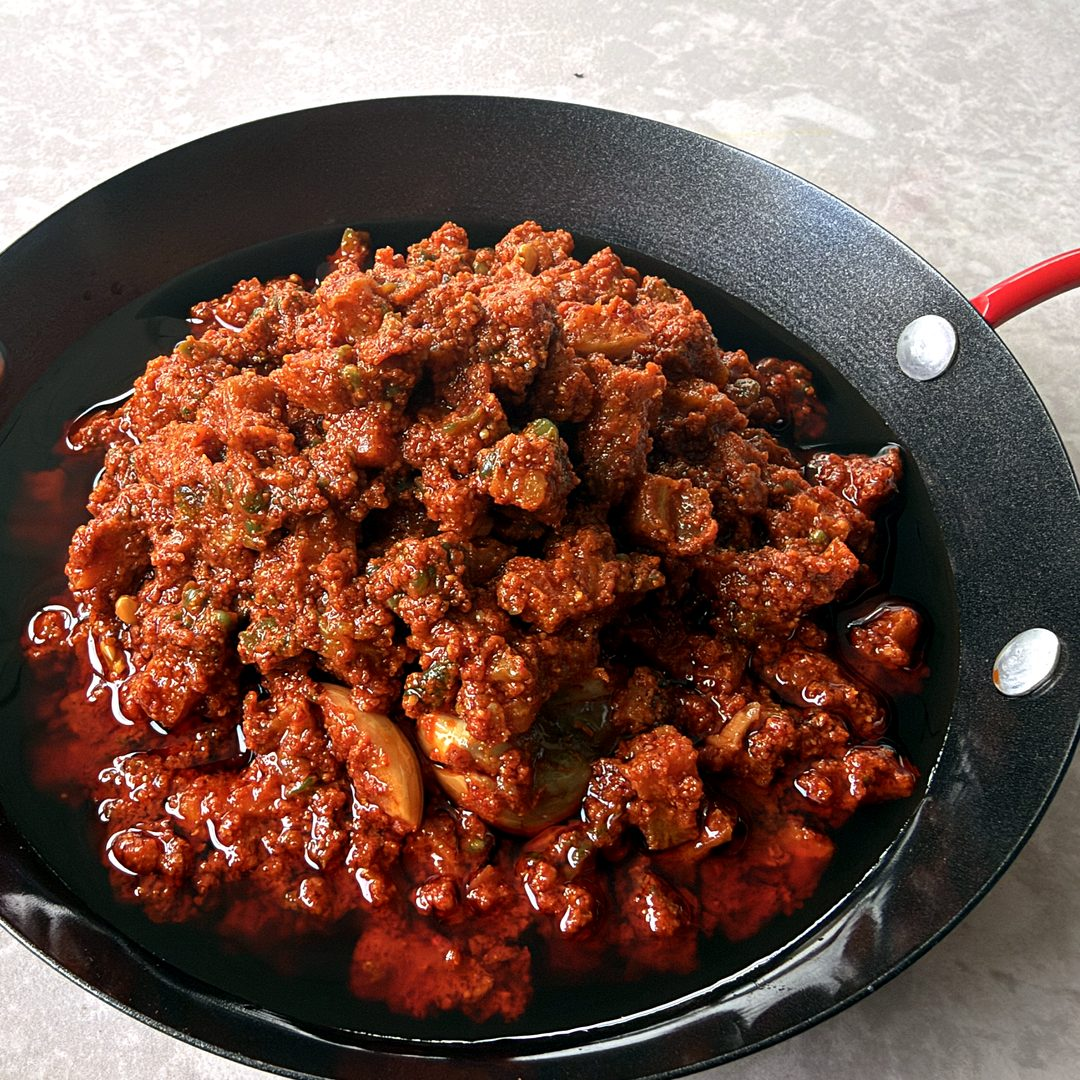
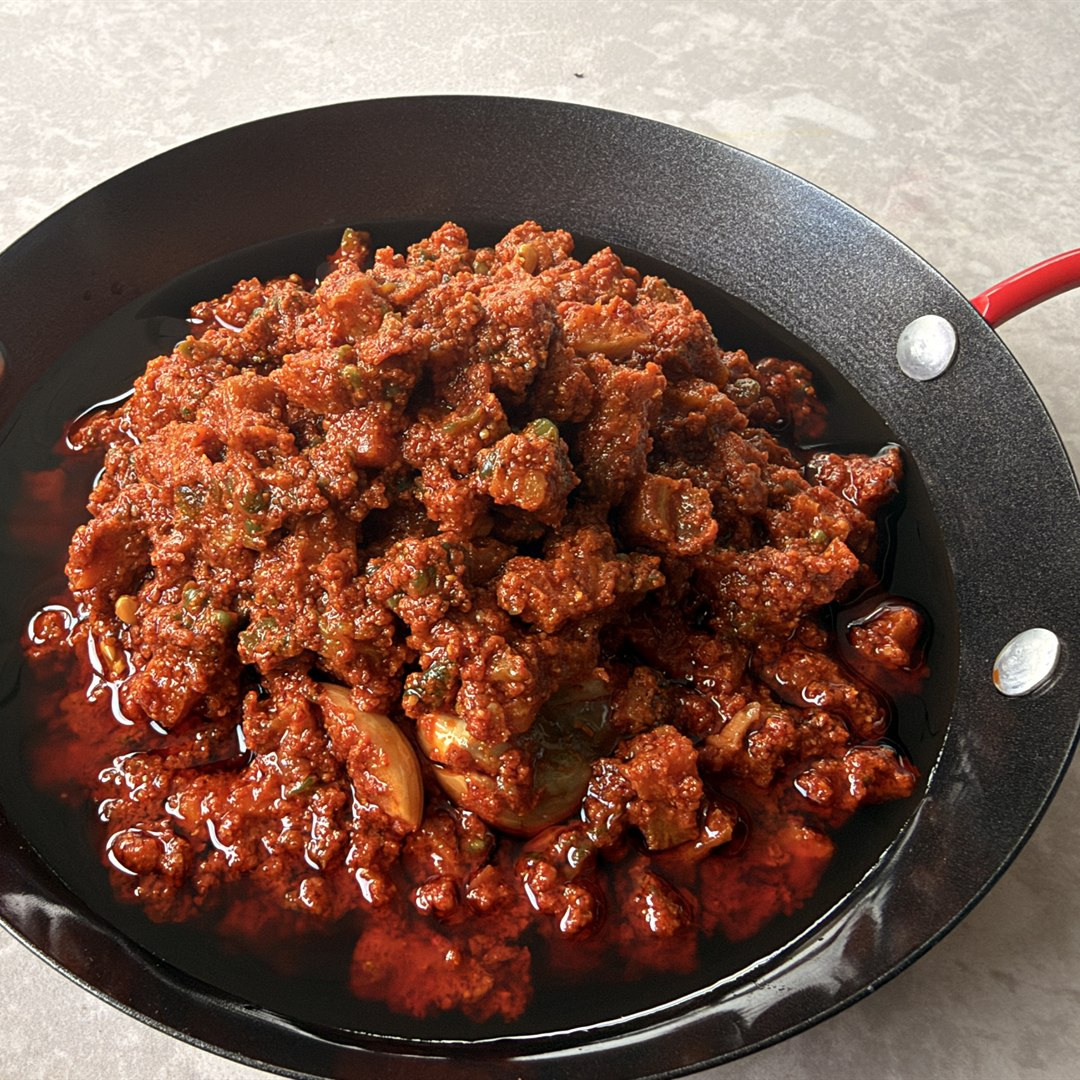
Replace Karela Pickle product photos

Changed region(s): [[0.7333, 0.1833, 0.7944, 0.2444]]

diff --git a/shop/products/picklespodi/picklespodi-karela-bitter-gourd-pickle/index.html b/shop/products/picklespodi/picklespodi-karela-bitter-gourd-pickle/index.html
@@ -159,12 +159,6 @@
         <div class="product-thumbs" id="pthumbs">
           <button type="button" class="pthumb is-active" data-src="../../../../images/products/pickles/karela-pickle-2026-1.jpg" aria-label="View image 1"><img src="../../../../images/products/pickles/karela-pickle-2026-1.jpg" alt="Karela Pickle / Kakarakaya Pickle 1" loading="lazy"></button>
           <button type="button" class="pthumb" data-src="../../../../images/products/pickles/karela-pickle-2026-2.jpg" aria-label="View image 2"><img src="../../../../images/products/pickles/karela-pickle-2026-2.jpg" alt="Karela Pickle / Kakarakaya Pickle 2" loading="lazy"></button>
-          <button type="button" class="pthumb" data-src="../../../../images/products/pickles/karela-pickle-2026-3.jpg" aria-label="View image 3"><img src="../../../../images/products/pickles/karela-pickle-2026-3.jpg" alt="Karela Pickle / Kakarakaya Pickle 3" loading="lazy"></button>
-          <button type="button" class="pthumb" data-src="../../../../images/products/pickles/karela-pickle-2026-4.jpg" aria-label="View image 4"><img src="../../../../images/products/pickles/karela-pickle-2026-4.jpg" alt="Karela Pickle / Kakarakaya Pickle 4" loading="lazy"></button>
-          <button type="button" class="pthumb" data-src="../../../../images/products/pickles/karela-pickle-2026-5.jpg" aria-label="View image 5"><img src="../../../../images/products/pickles/karela-pickle-2026-5.jpg" alt="Karela Pickle / Kakarakaya Pickle 5" loading="lazy"></button>
-          <button type="button" class="pthumb" data-src="../../../../images/products/pickles/karela-pickle-2026-6.jpg" aria-label="View image 6"><img src="../../../../images/products/pickles/karela-pickle-2026-6.jpg" alt="Karela Pickle / Kakarakaya Pickle 6" loading="lazy"></button>
-          <button type="button" class="pthumb" data-src="../../../../images/products/pickles/karela-pickle-2026-7.jpg" aria-label="View image 7"><img src="../../../../images/products/pickles/karela-pickle-2026-7.jpg" alt="Karela Pickle / Kakarakaya Pickle 7" loading="lazy"></button>
-          <button type="button" class="pthumb" data-src="../../../../images/products/pickles/karela-pickle-2026-8.jpg" aria-label="View image 8"><img src="../../../../images/products/pickles/karela-pickle-2026-8.jpg" alt="Karela Pickle / Kakarakaya Pickle 8" loading="lazy"></button>
         </div>
       </div>
       <article class="product-content">

diff --git a/assets/js/data.js b/assets/js/data.js
@@ -1212,7 +1212,7 @@ const SHRISH_DATA = {
       price: "$10.99", unit: "250g or 500g",
       available: true, displayOnly: false, preorderOnly: false, tag: "Veg",
       image: "images/products/pickles/karela-pickle-2026-1.jpg",
-      gallery: ["images/products/pickles/karela-pickle-2026-1.jpg", "images/products/pickles/karela-pickle-2026-2.jpg", "images/products/pickles/karela-pickle-2026-3.jpg", "images/products/pickles/karela-pickle-2026-4.jpg", "images/products/pickles/karela-pickle-2026-5.jpg", "images/products/pickles/karela-pickle-2026-6.jpg", "images/products/pickles/karela-pickle-2026-7.jpg", "images/products/pickles/karela-pickle-2026-8.jpg"],
+      gallery: ["images/products/pickles/karela-pickle-2026-1.jpg", "images/products/pickles/karela-pickle-2026-2.jpg"],
       description: "Andhra-style bitter gourd pickle made with crisp fried karela pieces in a tangy, spicy tamarind and chilli masala. The frying and spices balance the natural bitterness, leaving a bold, appetising pickle for rice and tiffins.",
       ingredientsText: "Bitter gourd / kakarakaya, red chilli powder, tamarind, mustard, fenugreek, garlic, salt, turmeric, peanut/groundnut oil",
       storageNote: "Refrigerate after opening and use within 30-60 days. Always use a clean, dry spoon. Store unopened packs cool, dry, and away from sunlight.",